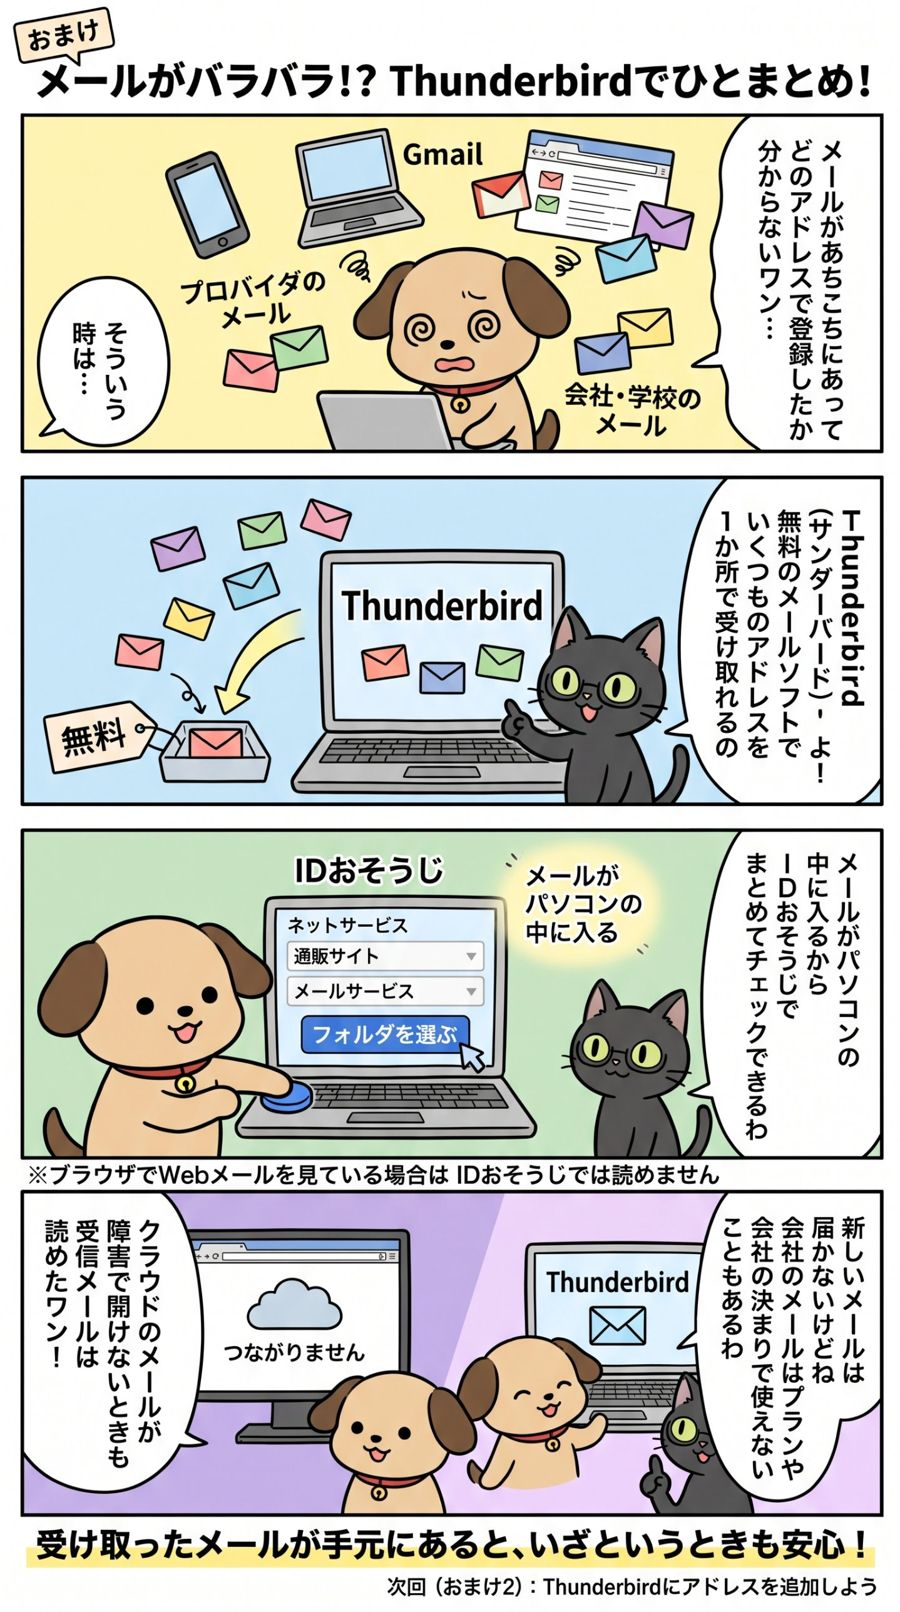
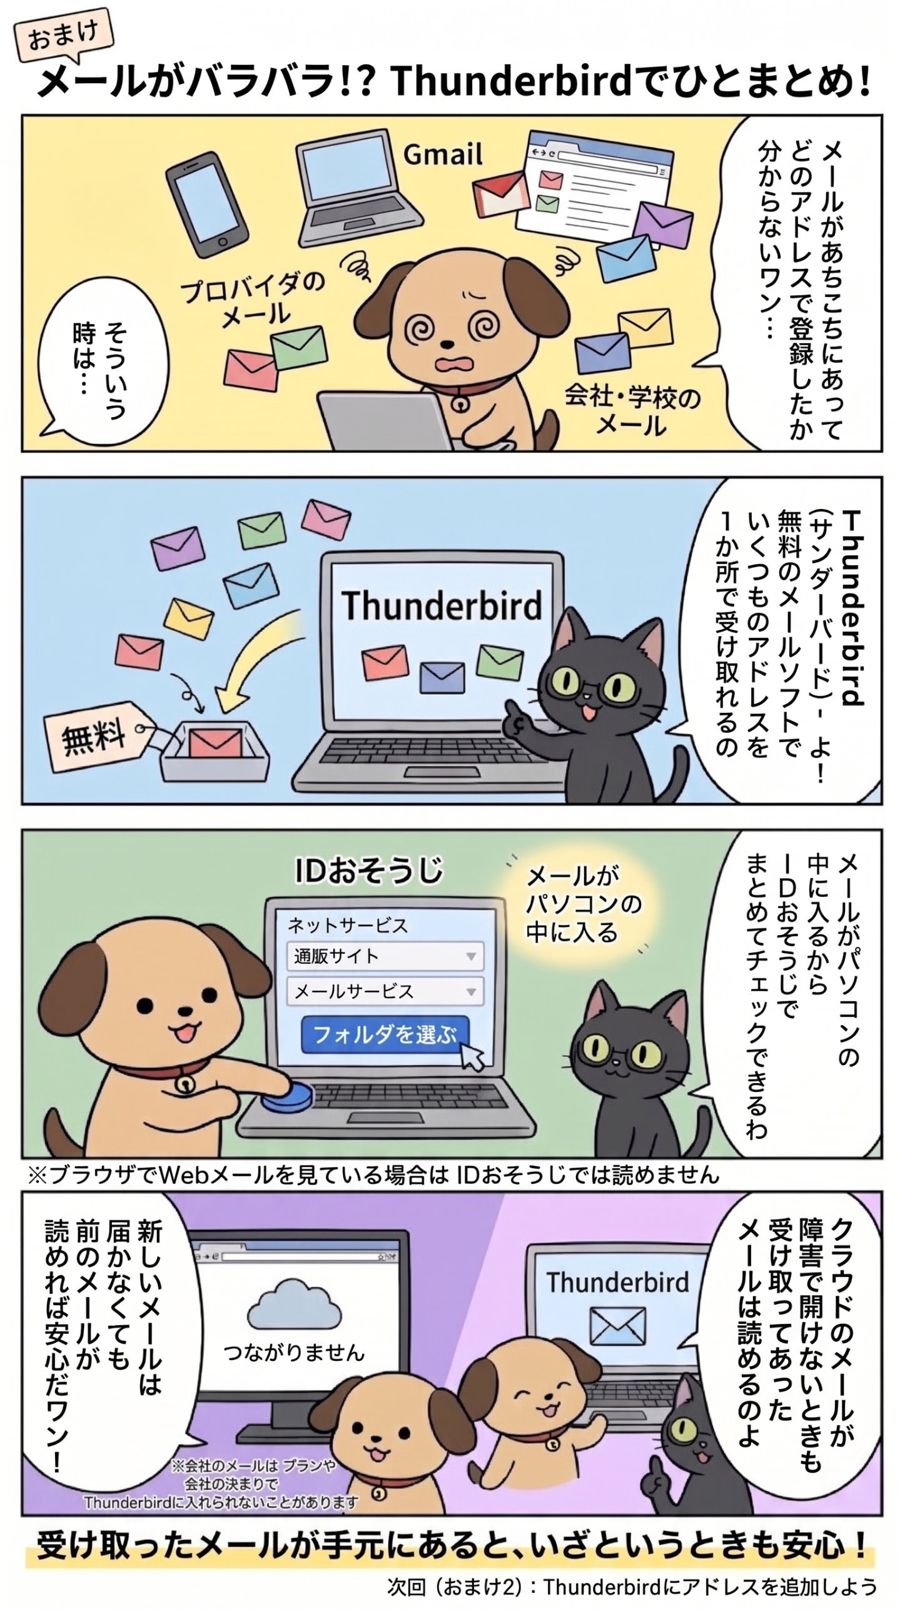
up

diff --git a/id-osouji.html b/id-osouji.html
@@ -22,7 +22,7 @@
 <h3 class="omake-h">おまけ　Thunderbirdを使うと便利なこと</h3>
 <p>IDおそうじを使うのに、Thunderbirdは必須ではありません（Outlookのデータファイルや、書き出したメールファイルも読み込めます）。メールをまとめて受け取りたい方向けの、おまけのマンガです。</p>
 <div class="manga">
-<figure><figcaption>― おまけ1 ―</figcaption><a href="images/id-osouji/omake-1.jpg" target="_blank" rel="noopener"><img src="images/id-osouji/omake-1.jpg" alt="おまけ1：メールがバラバラ！？ Thunderbirdでひとまとめ！" loading="lazy" width="900" height="1612"></a></figure>
+<figure><figcaption>― おまけ1 ―</figcaption><a href="images/id-osouji/omake-1.jpg?v=2" target="_blank" rel="noopener"><img src="images/id-osouji/omake-1.jpg?v=2" alt="おまけ1：メールがバラバラ！？ Thunderbirdでひとまとめ！" loading="lazy" width="900" height="1612"></a></figure>
 <figure><figcaption>― おまけ2 ―</figcaption><a href="images/id-osouji/omake-2.jpg?v=5" target="_blank" rel="noopener"><img src="images/id-osouji/omake-2.jpg?v=5" alt="おまけ2：Thunderbirdにまとめよう！追加はかんたん3ステップ" loading="lazy" width="900" height="1612"></a></figure>
 </div>
 </div>
